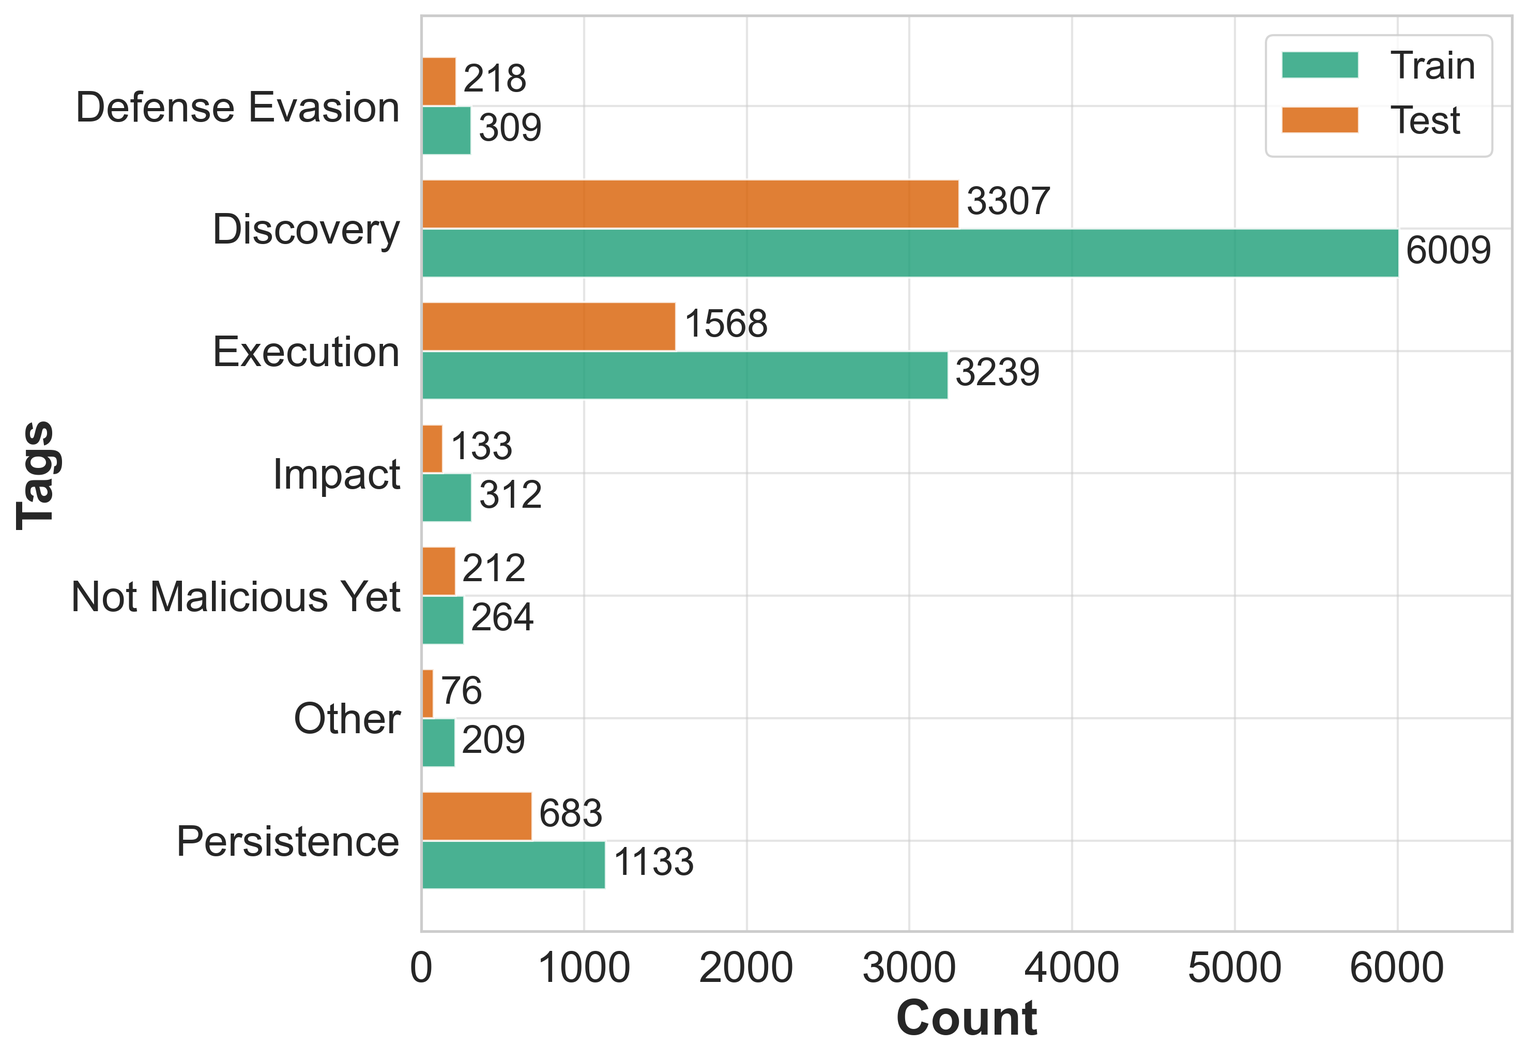
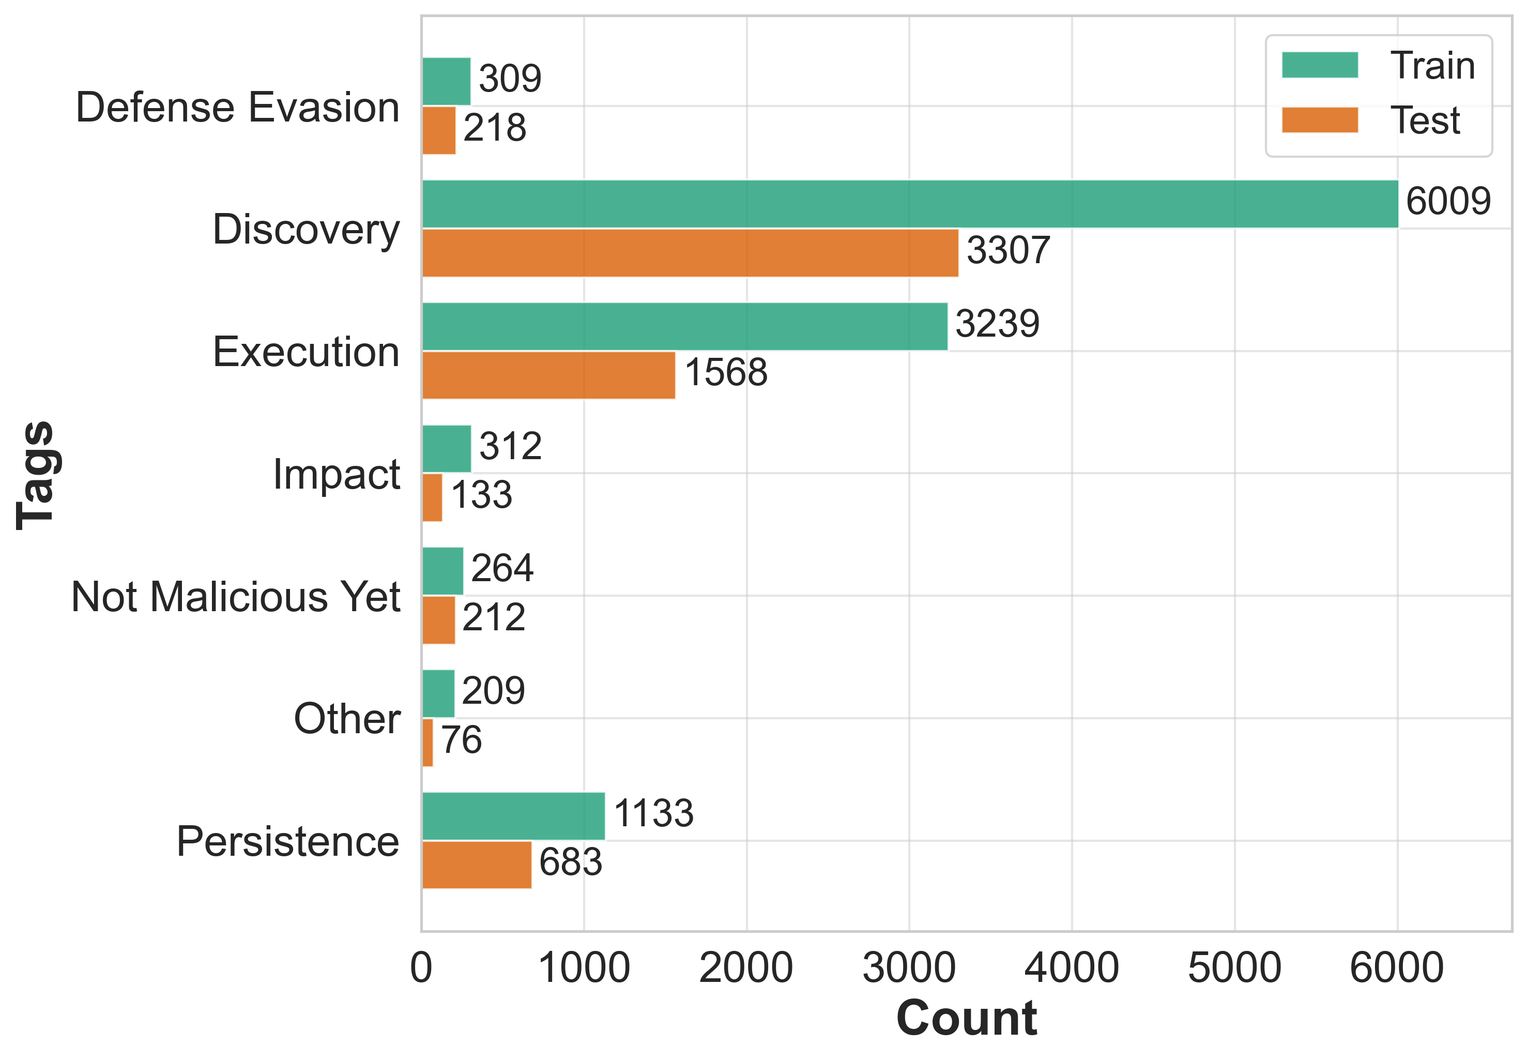
Reviewed task1 and task4 report

Changed region(s): [[0.2492, 0.0312, 0.9966, 0.8429]]

diff --git a/report/sections/Task4.tex b/report/sections/Task4.tex
@@ -2,7 +2,7 @@
 We now focus on the inference dataset (\emph{cyberlab.csv}). First, we applied the same preprocessing adopted previously, truncating words longer than 30 characters. Then, we used the best model identified in \cref{sec:task3} (i.e., UnixCoder-base, $lr=10^{-5}$, 15 epochs) to predict MITRE tags for all the inference sessions, assigning to each bash word the tag associated with the first corresponding token.
 
 \subsection{Predicted tags analysis}
-\paragraph{Tags frequency for \texttt{cat}, \texttt{grep}, \texttt{echo}, and \texttt{rm}} \Cref{tab:task4_tags_frequency} summarizes the tag frequencies for the required commands (\texttt{cat}, \texttt{grep}, \texttt{echo}, and \texttt{rm}), computed as the number of times that tag was assigned to a command, divided by the total number of occurrences of that command. Only \texttt{grep} is uniquely associated with a single tag (\emph{Discovery}), while \texttt{cat} is assigned to two different tags: \emph{Discovery} (\SI{90.9}{\percent} of times) and \emph{Execution} (\SI{9.1}{\percent}). \texttt{echo} is mainly associated with three different tags: \emph{Persistence}, \emph{Discovery} and \emph{Execution}. Finally, \texttt{rm} can be assigned to four tags (\emph{Discovery}, \emph{Execution}, \emph{Defense Evasion} or \emph{Persistence}). Some tags are never (or almost) associated with any session; this is the case of \emph{Impact}, \emph{Not Malicious Yet}, and \emph{Other}.
+\paragraph{Tags frequency for \texttt{cat}, \texttt{grep}, \texttt{echo}, and \texttt{rm}} \Cref{tab:task4_tags_frequency} summarizes the tag frequencies for the required commands (\texttt{cat}, \texttt{grep}, \texttt{echo}, and \texttt{rm}), computed as the number of times that tag was assigned to a command, divided by the total number of occurrences of that command. Only \texttt{grep} is uniquely associated with a single tag (\emph{Discovery}), while \texttt{cat} is assigned to two different tags: \emph{Discovery} (\SI{90.9}{\percent} of times) and \emph{Execution} (\SI{9.1}{\percent}). \texttt{echo} is mainly associated with three different tags: \emph{Persistence}, \emph{Discovery} and \emph{Execution}. Finally, \texttt{rm} is assigned to four tags (\emph{Discovery}, \emph{Execution}, \emph{Defense Evasion} and \emph{Persistence}). Considering these commands, some tags are almost never associated with any session; this is the case of \emph{Impact}, \emph{Not Malicious Yet}, and \emph{Other}.
 
 \begin{table}
 \small
@@ -26,46 +26,46 @@ Persistence 		& 0.000 	& 0.000 	& 0.427 	& 0.017 \\
 
 \paragraph{Session examples} We will now qualitatively analyze one example of a session for each unique tuple (command, predicted tag), focusing only on those appeared more than \SI{1}{\percent} of times.
 
-\textbf{(\texttt{cat}, Discovery):} \texttt{[\dots]; cat /proc/mounts; [\dots]}. This command reads and displays the contents of the file \texttt{/proc/mounts}, listing information about storage devices, network mounts and virtual filesystems. Attackers can use it to map the target system's filesystem structure before attempting further exploitation or lateral movement. Since it's purely information gathering, the tag \emph{Discovery} is appropriate.
+\textbf{(\texttt{cat}, Discovery):} \texttt{[\dots]; cat /proc/mounts; [\dots]}. This command reads and displays the contents of the file \texttt{/proc/mounts}, listing information about storage devices, network mounts and virtual file systems. Attackers can use it to analyze the target's file system structure before attempting further exploitation or lateral movement. Since it is purely information gathering, the tag \emph{Discovery} is appropriate.
 
 \textbf{(\texttt{cat}, Execution):} \texttt{[\dots]; echo
 ``1'' > /var/tmp/.sysc436621
-; cat /var/tmp/.sysc436621 ; [\dots]}\footnote{The file path has been shortened for visualization purposes. The original one is \texttt{/var/tmp/.systemcache436621}.}. In this case, \texttt{cat} reads a hidden file from the temporary directory, created by a previous \texttt{echo}. Even if the \texttt{cat} command itself does not execute any malicious code (it looks like a validation step), it has likely been marked as \emph{Execution} because it precedes the subsequent code execution in the attack chain.
+; cat /var/tmp/.sysc436621 ; [\dots]}\footnote{The file path has been shortened for visualization purposes. The original one is \texttt{/var/tmp/.systemcache436621}.}. In this case, \texttt{cat} reads a hidden file from the temporary directory, created by a previous \texttt{echo}. Even if the \texttt{cat} command itself does not execute any malicious code (it looks like a validation step), it has likely been marked as \emph{Execution} because it precedes the subsequent code execution in the attack chain. Based on that, a more appropriate tag for this instance may have been \emph{Not Malicious Yet}.
 
-\textbf{(\texttt{grep}, Discovery):} \texttt{cat /proc/cpuinfo | grep name | wc -l ; [\dots]}. The \texttt{grep} command filters the \texttt{cat} output to find lines containing ``name'', enabling the attacker to profile the target system's CPU specifications. The \emph{Discovery} tag looks accurate, since attackers are gathering hardware details before attempting exploitation or lateral movement.
+\textbf{(\texttt{grep}, Discovery):} \texttt{cat /proc/cpuinfo | grep name | wc -l ; [\dots]}. The \texttt{grep} command filters the \texttt{cat} output to find lines containing the word ``name'', enabling the attacker to profile the target system's CPU specifications. The \emph{Discovery} tag looks accurate, since attackers are gathering hardware details before attempting exploitation or lateral movement.
 
-\textbf{(\texttt{echo}, Persistence):} \texttt{[\dots]; echo ``root:XP3IUReH9hhH'' | chpasswd | bash ; [\dots]}. The \texttt{echo} outputs the string \texttt{root:XP3IUReH9hhH} (username:password hash), which is piped to \texttt{chpasswd}, that updates user passwords from standard input. By changing the \texttt{root} user's password to a known value, the attacker gains persistent administrative access to the compromised system.
+\textbf{(\texttt{echo}, Persistence):} \texttt{[\dots]; echo ``root:XP3IUReH9hhH'' | chpasswd | bash ; [\dots]}. The \texttt{echo} command outputs the string \texttt{root:XP3IUReH9hhH}, which is piped to \texttt{chpasswd}, that updates user passwords from standard input. By changing the \texttt{root} user's password to a known value, the attacker gains persistent administrative access to the compromised system. As this session looks very similar to the one from the training set already analyzed in \cref{sec:task1_echo_analysis}, the \emph{Persistence} tag is appropriate.
 
-\textbf{(\texttt{echo}, Discovery):} \texttt{[\dots]; echo ``root 1ntr4n3t'' > /tmp/up.txt ; [\dots]}. It looks like the \texttt{echo} command saves credentials to the \texttt{/tmp/up.txt} file, potentially for future access. Hence, a \emph{Persistence} tag may look more appropriate.
+\textbf{(\texttt{echo}, Discovery):} \texttt{[\dots]; echo ``root 1ntr4n3t'' > /tmp/up.txt ; [\dots]}. It looks like the \texttt{echo} command is used to save credential credentials to the \texttt{/tmp/up.txt} file, potentially for future access. Hence, a \emph{Persistence} tag may be more appropriate.
 
 \textbf{(\texttt{echo}, Execution):} \texttt{[\dots]; echo
-``base64\_payload'' | base64 --decode | bash ;}. The \texttt{echo} outputs a base64 payload, that is then decoded and executed. Hence, the command immediately executes arbitrary code, not just setting up mechanisms for future access.
+``base64\_payload'' | base64 -{}-{}decode | bash ;}. The \texttt{echo} command outputs a base64 payload, that is then decoded and executed. Hence, the command executes arbitrary code, probably a malware binary. As this session looks very similar to the one from the training set already analyzed in \cref{sec:task1_echo_analysis}, the \emph{Execution} tag looks correct.
 
-\textbf{(\texttt{rm}, Discovery):} \texttt{[\dots]; echo ``321'' > /var/tmp/.v03522123; rm -rf /var/tmp/.v03522123; [\dots]}\footnote{The file path has been shortened for visualization purposes. The original one is \texttt{/var/tmp/.var03522123}.}. This command sequence writes \texttt{321} into the file, and immediately after deletes the same file. Here, \texttt{rm} should probably be marked as \emph{Execution}, since it is an active operation. However, the model may have marked it as \emph{Discovery} as it is surrounded by file operations that can be associated with a discovery phase, for example as a permission check.
+\textbf{(\texttt{rm}, Discovery):} \texttt{[\dots]; echo ``321'' > /var/tmp/.v03522123; rm -rf /var/tmp/.v03522123; [\dots]}\footnote{The file path has been shortened for visualization purposes. The original one is \texttt{/var/tmp/.var03522123}.}. This command sequence writes \texttt{321} into a file, which is then immediately deleted. The model has probably marked the \texttt{rm} command as \emph{Discovery}, because it is surrounded by file operations that can be associated with a discovery phase, and could be motivated as a permission check. This looks reasonable, given that this sequence does not seem relevant by itself from an attacker's point of view.
 
-\textbf{(\texttt{rm}, Execution):} \texttt{[\dots]; rm -rf /var/tmp/dota* ; [\dots]}. This command deletes the files in the directory \texttt{var/tmp/dota}. Hence, it is active operation, removing files that may contain traces of previous actions. However, in that case the \emph{Defense Evasion} tag would be more appropriated.
+\textbf{(\texttt{rm}, Execution):} \texttt{[\dots]; rm -rf /var/tmp/dota* ; [\dots]}. This command deletes all the files and folders whose names begin with \texttt{dota} in the \texttt{/var/tmp} directory. This is an active operation, removing files that may contain traces of previous actions. Hence, in that case the \emph{Defense Evasion} tag would have been more appropriated.
 
-\textbf{(\texttt{rm}, Defense Evasion):} \texttt{[\dots]; cp /bin/echo .s ; [\dots]; rm .s ; exit}. This command sequence copies the \texttt{echo} binary in \texttt{.s}, that is finally deleted as last step. This operation is clearly \emph{Defense Evasion} because it's the final cleanup step that removes forensic evidence of the attack.
+\textbf{(\texttt{rm}, Defense Evasion):} \texttt{[\dots]; cp /bin/echo .s ; [\dots]; rm .s ; exit}. This command sequence copies the \texttt{echo} binary in \texttt{.s}, that is eventually deleted as last step. This operation is clearly \emph{Defense Evasion} because it is the final cleanup step that removes forensic evidence of the attack.
 
-\textbf{(\texttt{rm}, Persistence):} \texttt{[\dots]; echo ``admin Passwd4'' > /tmp/up.txt ; rm -rf /var/tmp/dota*}. This command deletes the files in the directory \texttt{var/tmp/dota}. Hence, it looks like \emph{Defense Evasion} technique, removing files that may contain traces of previous actions. However, the model probably consider it as \emph{Persistence} due to the previous steps, such as the \texttt{echo} command that saves the credentials to the \texttt{/tmp/up.txt} file, making them persistent across restarts.
+\textbf{(\texttt{rm}, Persistence):} \texttt{[\dots]; echo ``admin Passwd4'' > /tmp/up.txt ; rm -rf /var/tmp/dota*}. This command deletes all the files and folders whose names begin with \texttt{dota} in the \texttt{/var/tmp} directory. Hence, it looks like a \emph{Defense Evasion} technique, removing files that may contain traces of previous actions. However, the model probably considers it as \emph{Persistence} due to the previous steps, such as the \texttt{echo} command that saves the credentials to the \texttt{/tmp/up.txt} file, making them persistent across restarts.
 
 
 \subsection{Fingerprint Analysis}
-Subsequently, we focused on the fingerprints present in the inference dataset. After having identified the unique fingerprints, we sorted them by ``date of birth'' and we assigned to each an ID. Then, we counted the number of sessions described by a specific fingerprint for each date.
+Subsequently, we focused on the fingerprints extracted from the predictions for the inference dataset. After having identified the unique fingerprints, we sorted them by ``date of birth'' and we assigned to each an incremental ID. Then, we counted the number of sessions described by a specific fingerprint for each date.
 
 \Cref{fig:fingerprintTimeline} shows fingerprints IDs appearance over time: the y-axis lists fingerprint IDs (the lower the value, the earlier the fingerprint appeared for the first time), while the x-axis represents the full data-collection period. Each point indicates that at least one session associated with that fingerprint occurred on that date. The size and color of each point reflect how many sessions for that fingerprint were recorded that day: larger and redder points correspond to more sessions.
-
-\paragraph{Fingerprint patterns}  The plot reveals clear temporal and structural patterns in the inference dataset. During the collection period, 15516 unique fingerprints were observed: horizontal bands indicate fingerprints that reappear over multiple days or weeks, while vertical columns refer to daily batches of observed fingerprints. In the first one month and a half, a relatively small number of unique fingerprints appeared ($\approx1150$), while by 1st December this number increased significantly, reaching $7000$. In the final month, more $7000$ new fingerprints appeared, and the vertical columns became denser (excluding a day in mid-December, in which no session is received). However, in the last week of collection, many fingerprints disappeared or became rare, as shown by the sparse points. The last appeared (those with ID $\approx15000$) continued arriving.
-
-\paragraph{Most present fingerprints} A subset of fingerprints, primarily with low IDs ($<500$), appears persistently throughout the entire observation period with relatively stable and low session counts. In particular, the fingerprints present on most days are those with IDs 0, 17, 19 and 21 (99 days of presence over 122). However, some of them stopped appearing or became rarer in the last period of collection (from 10th December).
-
-\paragraph{Fingerprints with more sessions} Some fingerprints have many associated sessions: examples are fingerprint 21 (26036 sessions), 48 (17639), 25 (7169), 42 (4479) and 8858 (4342). However, these numbers do not always translate in red big circles on the plot, since many sessions span across the whole collection period: the medium-sized yellow/orange clusters at the bottom indicate ``regular'' fingerprints.
-
-\paragraph{Attack campaigns} Several fingerprints exhibit burst-like behavior, characterized by sudden appearance and high numbers of associated sessions over short time intervals. Most notably, a dominant fingerprint (8858) emerging in mid-December 2019 (8th-10th) reaches the highest session count per day ($>1000$) in the dataset, strongly indicating a coordinated attack campaign. This fingerprint is initially characterized by a \emph{Discovery} phase, followed by some \emph{Persistence} action. Then, there are many \emph{Discovery} commands, some \emph{Execution} actions, and finally \emph{Persistence} steps. Hence, after an exploratory phase, the attacker is probably executing an exploit, finally making its impact persistent. Finally, the late-December period shows a dense concentration of high-ID fingerprints with moderate to high activity, consistent with another possible attack campaign.
 
 \begin{figure}
 	\centering
 	\includegraphics[width=0.9\linewidth]{img/Task4/fingerprint_timeline_small_circles.png}
-	\caption{\textbf{Fingerprint IDs over time.} The y-axis lists fingerprint IDs (the lower the value, the earlier the fingerprint appeared for the first time), while the x-axis represents the full data-collection period. Each point indicates that at least one session associated with that fingerprint occurred on that date. The size and color of each point reflect how many sessions for that fingerprint were recorded that day: larger and redder points correspond to more sessions.}
+	\caption{Fingerprint IDs over time. The y-axis lists fingerprint IDs (the lower the value, the earlier the fingerprint appeared for the first time), while the x-axis represents the full data-collection period. Each point indicates that at least one session associated with that fingerprint occurred on that date. The size and color of each point reflect how many sessions for that fingerprint were recorded that day: larger and redder points correspond to more sessions.}
 	\label{fig:fingerprintTimeline}
 \end{figure}
+
+\paragraph{Fingerprint patterns}  The plot reveals clear temporal and structural patterns in the inference dataset. During the collection period (lasted four months), 15516 unique fingerprints were observed: horizontal bands indicate fingerprints that reappear over multiple days or weeks, while vertical columns refer to daily batches of observed fingerprints. In the first one month and a half, a relatively small number of unique fingerprints appeared ($\approx1150$), while this number increased significantly, reaching $7000$, by the \nth{1} of December. In the final month of collection, more than $7000$ new fingerprints appeared, and the vertical columns became denser (excluding a day in mid-December, in which no session was received). This likely indicates that attackers moved to a more active phase, both in terms of quantity and diversity of sessions. However, in the last week of collection, many fingerprints disappeared or became rare, as shown by the presence of sparse points in the plot. Still, the last appeared (those with ID $\approx15000$) continued arriving.
+
+\paragraph{Most present fingerprints} A subset of fingerprints, primarily with low IDs ($<500$), appears persistently throughout the entire observation period. In particular, the fingerprints present on most days are those with IDs 0, 17, 19 and 21 (with 99 days of presence out of 122). However, some of them stopped appearing or became rarer in the last period of collection (after the \nth{10} of December).
+
+\paragraph{Fingerprints with many sessions} Some fingerprints have numerous associated sessions: examples are fingerprint 21 (26036 sessions), 48 (17639), 25 (7169), 42 (4479) and 8858 (4342). However, these numbers do not always translate in big red circles on the plot, since many sessions span across the whole collection period: the medium-sized yellow/orange clusters at the bottom mostly correspond to ``regular'' fingerprints, indicating attacks carried out constantly during the entire collection period. Hence, they cannot be considered as sporadic attack campaigns.
+
+\paragraph{Attack campaigns} Some fingerprints exhibit burst-like behavior, characterized by sudden appearance and high numbers of associated sessions over short time intervals. Most notably, a dominant fingerprint (8858) emerging in mid-December 2019 (\nth{8}\,--\,\nth{10}) reaches the highest session count per day ($>1000$) in the dataset, strongly indicating a coordinated attack campaign. This fingerprint is initially characterized by a \emph{Discovery} phase, followed by some \emph{Persistence} actions. Then, there are many \emph{Discovery} commands, some \emph{Execution} actions, and finally \emph{Persistence} steps. Hence, after an exploratory phase, the attacker is probably executing an exploit, finally making its impact persistent. Finally, the late-December period shows a dense concentration of high-ID fingerprints with moderate to high activity, consistent with another possible attack campaign.

diff --git a/report/sections/Task1.tex b/report/sections/Task1.tex
@@ -1,14 +1,14 @@
 \section{Dataset Characterization}
 In this section, we explore the provided training and test datasets.
 
-\paragraph{Labels exploration} \Cref{fig:task1_ecdf_bash_words} illustrates the distribution of tags in both the training and test sets. The datasets comprise seven distinct tags: \emph{Defense Evasion}, \emph{Discovery}, \emph{Execution}, \emph{Impact}, \emph{Not Malicious Yet}, \emph{Other}, and \emph{Persistence}. Generally, the number of Bash words assigned to a tag is higher in the training set than in the test set. In fact, the training set contains 11475 Bash words distributed among 251 sessions, while the test set only 6197 (108 sessions). Both sets exhibit a similar distribution profile: \emph{Discovery} ($\approx\SI{50}{\percent}$) is the most prevalent tag, followed by \emph{Execution} ($\approx\SI{25}{\percent}$), and \emph{Persistence} ($\approx\SI{10}{\percent}$). The remaining four tags are significantly less frequent, each appearing in less than \SI{4}{\percent} instances.
+\paragraph{Labels exploration} \Cref{fig:task1_tags_distribution} illustrates the distribution of tags in both the training and test sets. The datasets comprise seven distinct tags: \emph{Defense Evasion}, \emph{Discovery}, \emph{Execution}, \emph{Impact}, \emph{Not Malicious Yet}, \emph{Other}, and \emph{Persistence}. Generally, the number of Bash words assigned to a tag is higher in the training set than in the test set. In fact, the training set contains 11475 Bash words distributed among 251 sessions, while the test set only 6197 (108 sessions). Both sets exhibit a similar distribution profile: \emph{Discovery} ($\approx\SI{50}{\percent}$) is the most prevalent tag, followed by \emph{Execution} ($\approx\SI{25}{\percent}$), and \emph{Persistence} ($\approx\SI{10}{\percent}$). The remaining four tags are significantly less frequent, each associated with less than \SI{4}{\percent} of Bash words.
 
-\paragraph{The \texttt{echo} command} The \texttt{echo} command has been assigned to 6 different tags: \emph{Persistence} (104 times), \emph{Execution} (39 times), \emph{Discovery} (31 times), \emph{Not Malicious Yet} (8 times), \emph{Impact} (6 times), and \emph{Other} (4 times). We will now analyze two example of sessions: one in which \texttt{echo} is labelled as \emph{Persistence} and one as \emph{Execution}.
+\paragraph{The \texttt{echo} command}\label{sec:task1_echo_analysis} The \texttt{echo} command has been assigned to 6 different tags: \emph{Persistence} (104 times), \emph{Execution} (39 times), \emph{Discovery} (31 times), \emph{Not Malicious Yet} (8 times), \emph{Impact} (6 times), and \emph{Other} (4 times). We will now analyze two examples: one session in which \texttt{echo} is labelled as \emph{Persistence} and one as \emph{Execution}.
 
-\textbf{(\texttt{echo}, Persistence):} \texttt{[\dots]; echo ``root:HGbB4i9gUXMh' | chpasswd | bash ; [\dots]}. The \texttt{echo} outputs the string \texttt{root:HGbB4i9gUXMh} (username:password hash), which is piped to \texttt{chpasswd}, that updates user passwords from standard input. By changing the \texttt{root} user's password to a known value, the attacker gains persistent administrative access to the compromised system.
+\textbf{(\texttt{echo}, Persistence):} \texttt{[\dots]; echo ``root:HGbB4i9gUXMh'' | chpasswd | bash ; [\dots]}. The \texttt{echo} command outputs the string \texttt{root:HGbB4i9gUXMh}, which is piped to \texttt{chpasswd}, that updates user passwords from standard input. By changing the \texttt{root} user's password to a known value, the attacker gains persistent administrative access to the compromised system.
 
 \textbf{(\texttt{echo}, Execution):} \texttt{[\dots]; echo
-``base64\_payload'' | base64 --decode | bash ;}. The \texttt{echo} outputs a base64 payload, that is then decoded and executed. Hence, the command immediately executes arbitrary code, probably a malware binary.
+``base64\_payload'' | base64 -{}-{}decode | bash ;}. The \texttt{echo} command outputs a base64 payload, that is then decoded and executed. Hence, this sequence executes arbitrary code, probably a malware binary.
 
 In both cases, the \texttt{echo} command is used to output a string. However, the meaning of this string and the goal of the subsequent commands influence the labelling of \texttt{echo} itself: \emph{Persistence} in the first case, and \emph{Execution} in the second one.
 

diff --git a/report/main.tex b/report/main.tex
@@ -24,6 +24,7 @@
 \usepackage{nicefrac}
 \usepackage{multirow}
 \usepackage{booktabs}
+\usepackage[super]{nth}
 
 \usepackage{graphicx}
 \usepackage{float}
